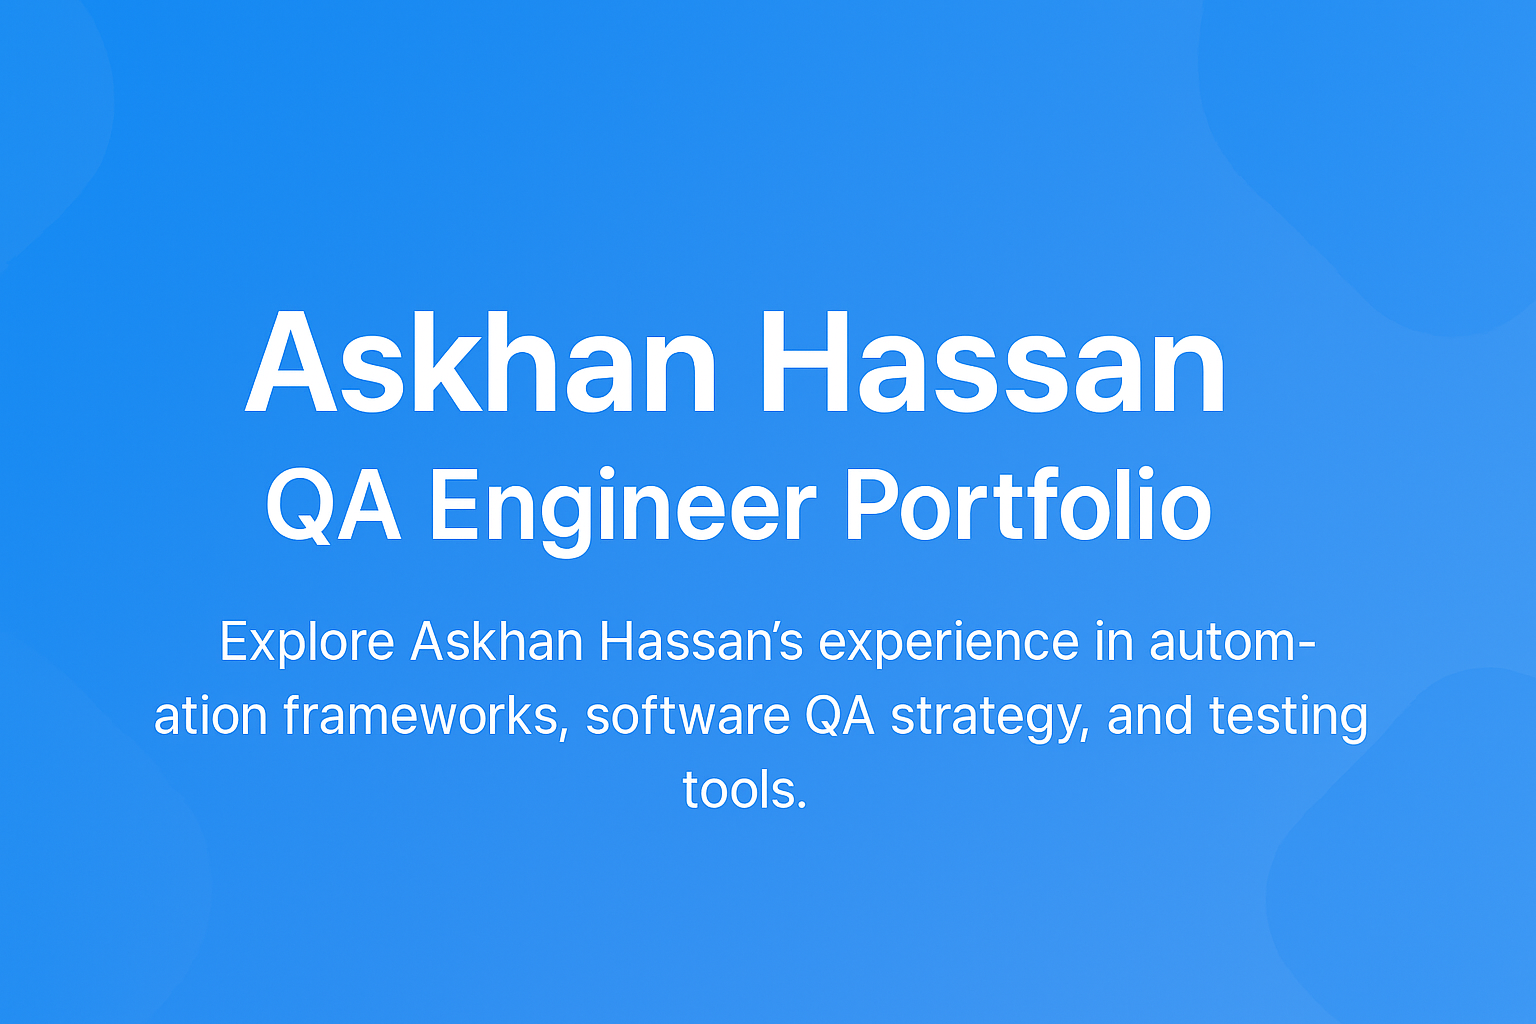
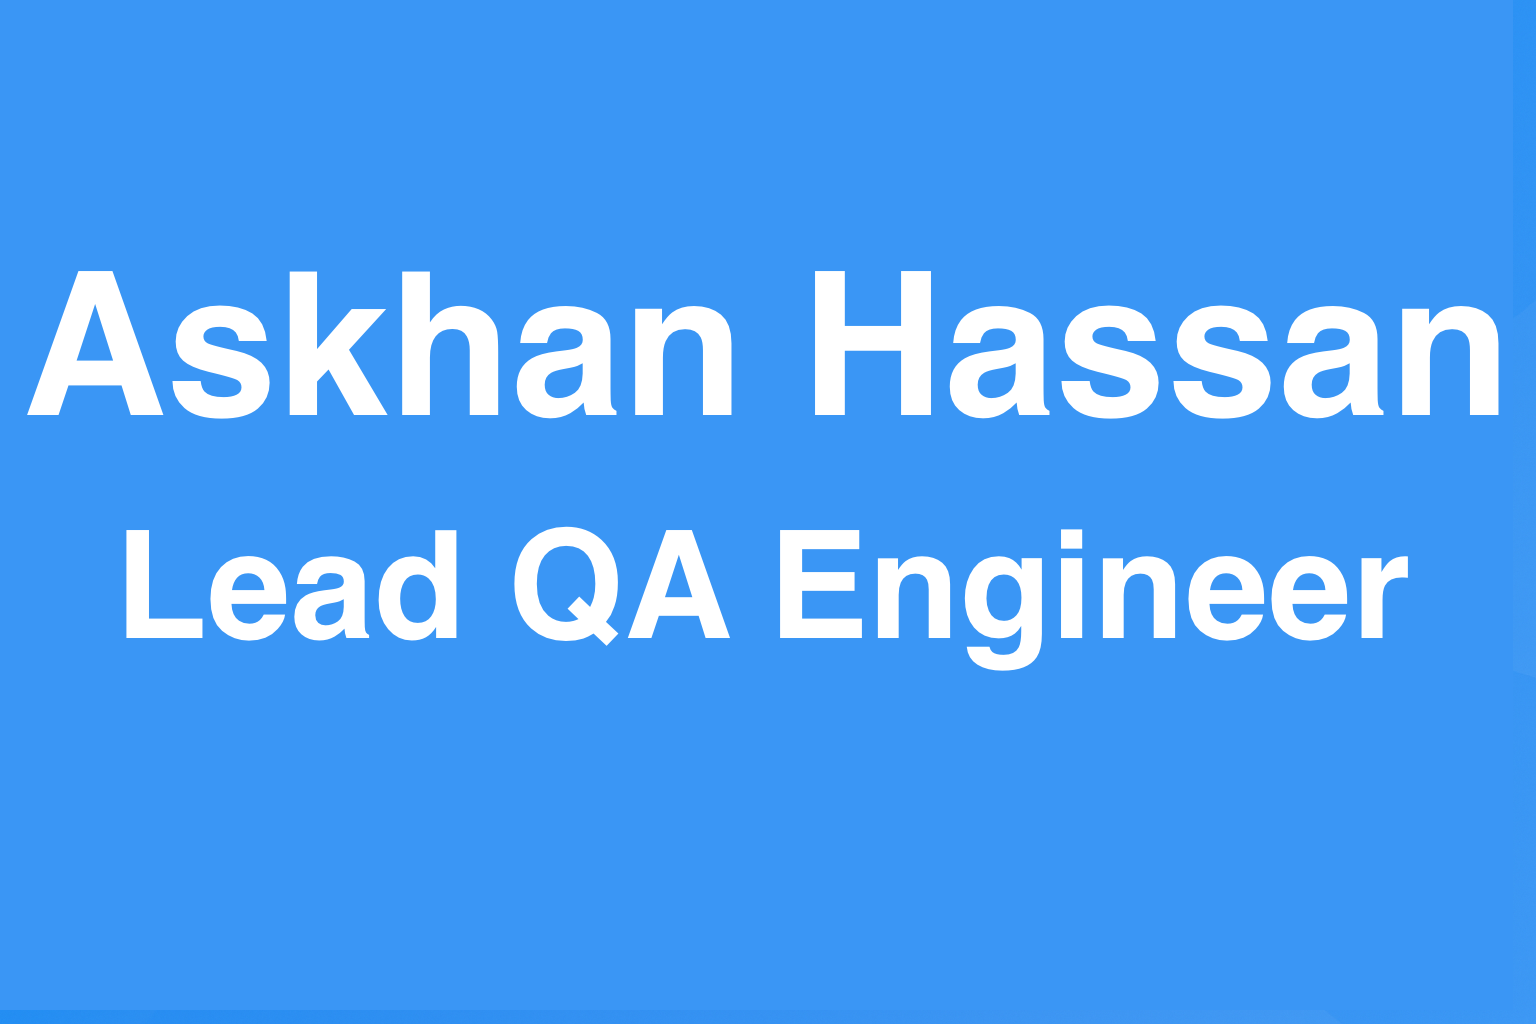
Update title and preview

diff --git a/public/index.html b/public/index.html
@@ -23,7 +23,7 @@
     />
 
     <!-- Open Graph for LinkedIn/Facebook -->
-    <meta property="og:title" content="Askhan Hassan | QA Engineer Portfolio"/>
+    <meta property="og:title" content="Askhan Hassan | Lead QA Engineer Portfolio"/>
     <meta
             property="og:description"
             content="Explore Askhan Hassan's experience in automation frameworks, software QA strategy, and testing tools."
@@ -34,7 +34,7 @@
 
     <!-- Twitter Card -->
     <meta name="twitter:card" content="summary_large_image"/>
-    <meta name="twitter:title" content="Askhan Hassan | QA Engineer Portfolio"/>
+    <meta name="twitter:title" content="Askhan Hassan | Lead QA Engineer Portfolio"/>
     <meta
             name="twitter:description"
             content="Explore Askhan Hassan's experience in automation frameworks, software QA strategy, and testing tools."
